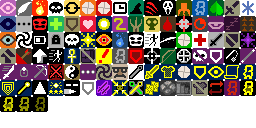
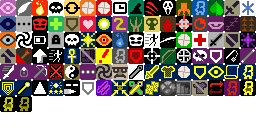
2.0.4:修复天狗崩溃 Bug；删除未使用图标；更改天狗炸弹机制，天狗层生成机制

Changed region(s): [[0.125, 0.75, 0.1875, 0.875]]

diff --git a/core/src/main/java/com/shatteredpixel/shatteredpixeldungeon/levels/PrisonBossLevel.java b/core/src/main/java/com/shatteredpixel/shatteredpixeldungeon/levels/PrisonBossLevel.java
@@ -215,6 +215,8 @@ public class PrisonBossLevel extends Level {
 			Painter.set(this, p, Terrain.WALL_DECO);
 		}
 
+		addCagesToCells();
+
 		//we set up the exit for consistently with other levels, even though it's in the walls
 		LevelTransition exit = new LevelTransition(this, pointToCell(levelExit), LevelTransition.Type.REGULAR_EXIT);
 		exit.right+=2;
@@ -237,6 +239,8 @@ public class PrisonBossLevel extends Level {
 		Painter.fill(this, entranceRoom, Terrain.WALL);
 		Painter.set(this, startHallway.left+1, startHallway.top, Terrain.EMPTY);
 		Painter.set(this, startHallway.left+1, startHallway.top+1, Terrain.DOOR);
+
+		addCagesToCells();
 
 	}
 	
@@ -318,13 +322,7 @@ public class PrisonBossLevel extends Level {
 			cell += width();
 		}
 
-		//pre-2.5.1 saves, if exit wasn't already added
-		if (exit() == entrance()) {
-			LevelTransition exit = new LevelTransition(this, pointToCell(levelExit), LevelTransition.Type.REGULAR_EXIT);
-			exit.right += 2;
-			exit.bottom += 3;
-			transitions.add(exit);
-		}
+		addCagesToCells();
 	}
 	
 	//keep track of removed items as the level is changed. Dump them back into the level at the end.
@@ -388,7 +386,7 @@ public class PrisonBossLevel extends Level {
 		addVisuals(); //this also resets existing visuals
 		traps.clear();
 
-		for (CustomTilemap t : customTiles){
+		for (CustomTilemap t : customTiles.toArray(new CustomTilemap[0])){
 			if (t instanceof FadingTraps){
 				((FadingTraps) t).remove();
 			}
@@ -670,7 +668,7 @@ public class PrisonBossLevel extends Level {
 		Painter.fill(this, tenguCell, 1, Terrain.EMPTY);
 		buildFlagMaps();
 
-		for (CustomTilemap vis : customTiles){
+		for (CustomTilemap vis : customTiles.toArray(new CustomTilemap[0])){
 			if (vis instanceof FadingTraps){
 				((FadingTraps) vis).remove();
 			}

diff --git a/core/src/main/java/com/shatteredpixel/shatteredpixeldungeon/actors/mobs/Tengu.java b/core/src/main/java/com/shatteredpixel/shatteredpixeldungeon/actors/mobs/Tengu.java
@@ -406,7 +406,7 @@ public class Tengu extends Mob {
 						return result;
 					}
 				}
-				
+
 				//attempt to use an ability, even if enemy can't be decided
 				if (canUseAbility()){
 					return useAbility();
@@ -418,7 +418,7 @@ public class Tengu extends Mob {
 			}
 		}
 	}
-	
+
 	//*****************************************************************************************
 	//***** Tengu abilities. These are expressed in game logic as buffs, blobs, and items *****
 	//*****************************************************************************************
@@ -1108,12 +1108,15 @@ public class Tengu extends Mob {
 			@Override
 			protected void onThrow(int cell) {
 				super.onThrow(cell);
+				ShockerAbility buff;
 				if (throwingChar != null){
-					Buff.append(throwingChar, ShockerAbility.class).shockerPos = cell;
+					buff = Buff.append(throwingChar, ShockerAbility.class);
 					throwingChar = null;
 				} else {
-					Buff.append(curUser, ShockerAbility.class).shockerPos = cell;
+					buff = Buff.append(curUser, ShockerAbility.class);
 				}
+				buff.shockerPos = cell;
+				buff.spendToWhole(); //to ensure its aligned with blob logic
 			}
 			
 			@Override

diff --git a/core/src/main/java/com/shatteredpixel/shatteredpixeldungeon/ui/BuffIndicator.java b/core/src/main/java/com/shatteredpixel/shatteredpixeldungeon/ui/BuffIndicator.java
@@ -146,8 +146,7 @@ public class BuffIndicator extends Component {
 	public static final int LIFELOAN    = 93;
 	public static final int EVILUNFOLD  = 94;
 		public static final int EXHAUSTION_START = 94;
-	/*
-	three extra icons for exhaustion
+	/*two extra icons for exhaustion
 	*/
 
 	public static final int SIZE_SMALL  = 7;